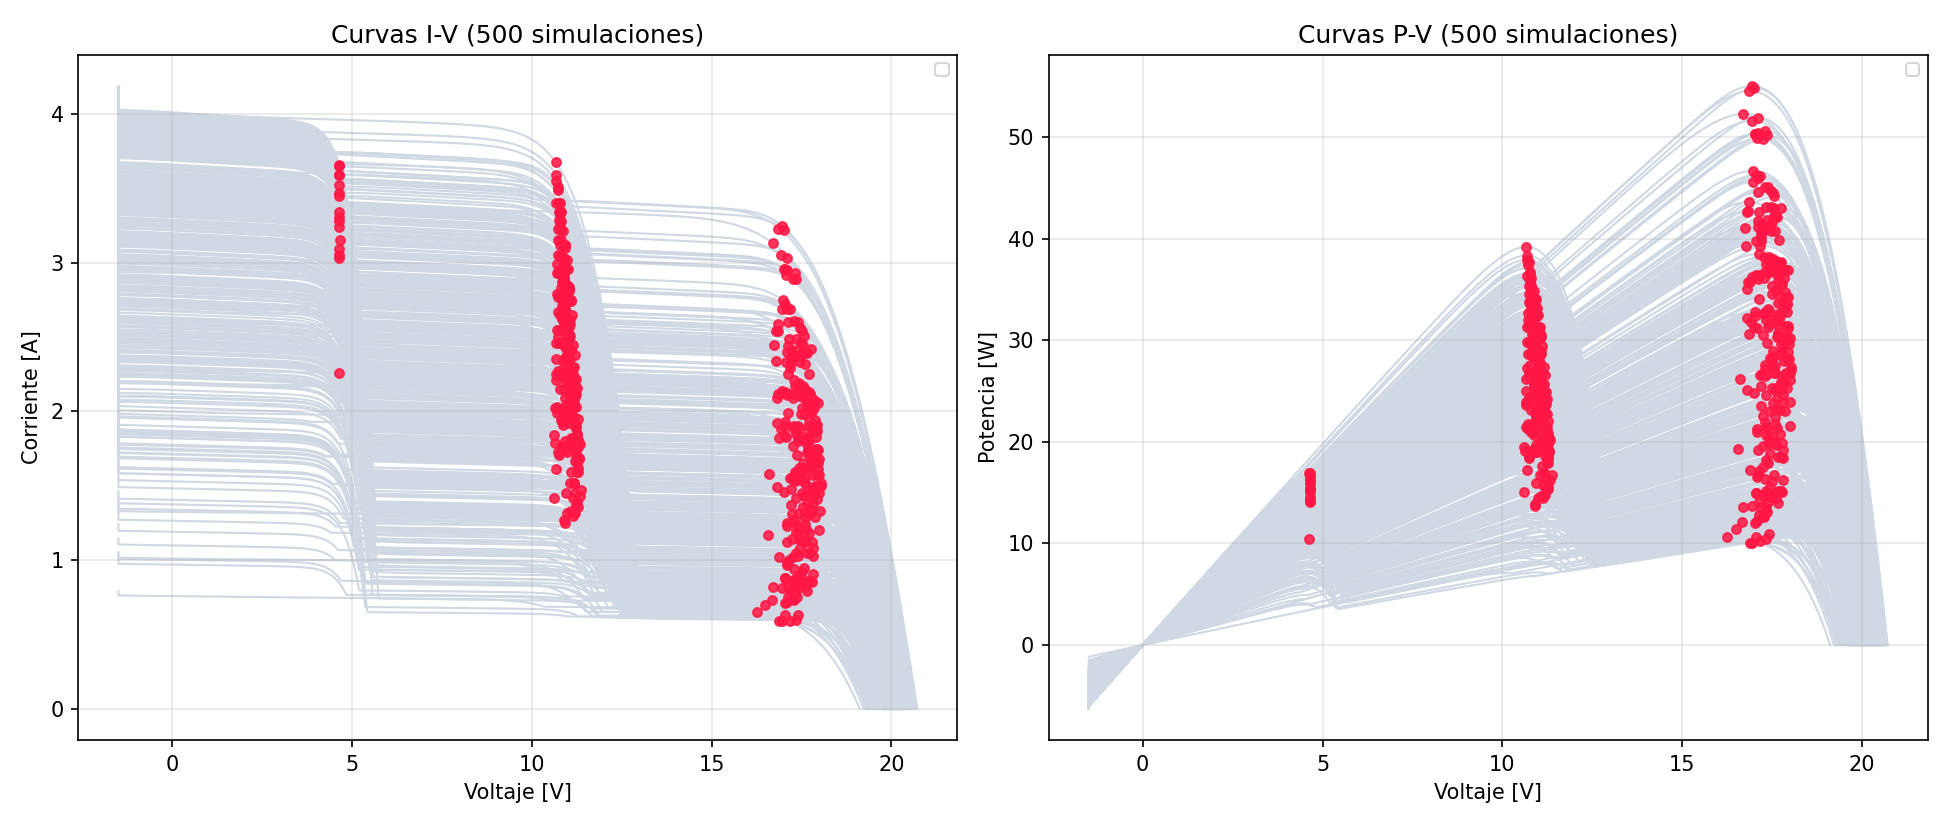
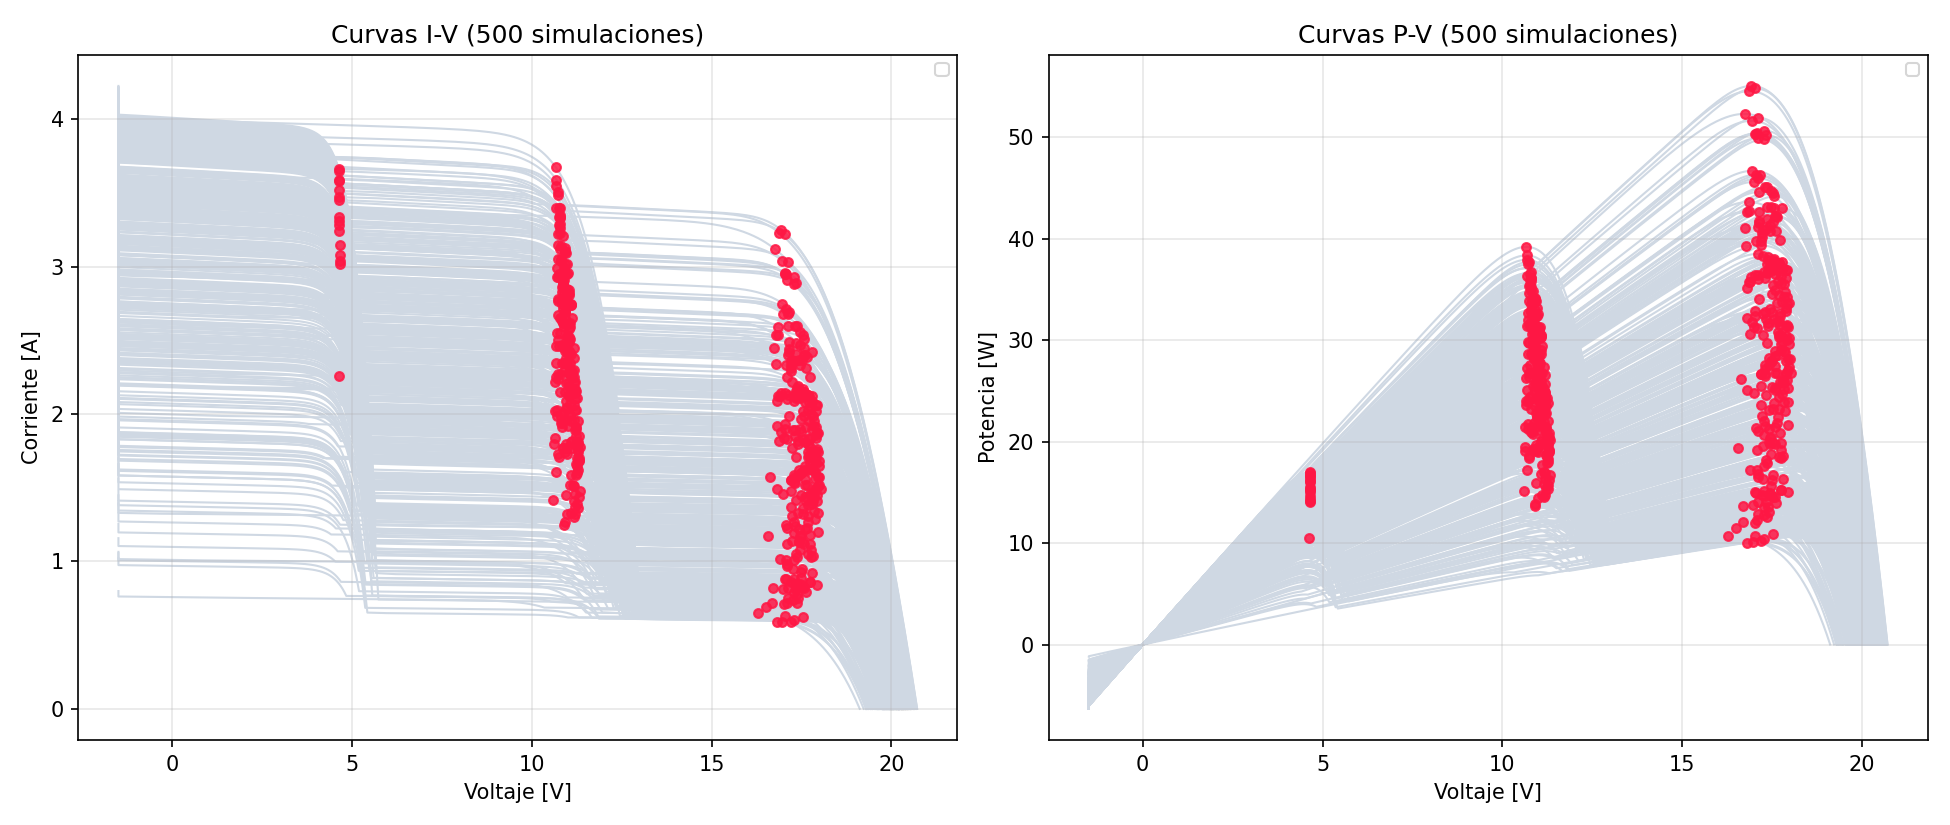
Añadido .gitignore de Python + mejora código simulación

Changed region(s): [[0.0615, 0.1212, 0.4308, 0.7576], [0.8923, 0.4848, 0.9231, 0.6667], [0.0923, 0.3333, 0.1538, 0.3939]]

diff --git a/Simulacion/panel_funciones.py b/Simulacion/panel_funciones.py
@@ -177,7 +177,17 @@ def curva_iv_panel_sombreado(modulo, irradiancias_substrings, temp_celda,
     # es la misma para todos los substrings en serie (excepto cuando el
     # bypass de alguno se activa), así que barremos corriente y resolvemos
     # voltaje, en vez de al revés.
-    i_max_ref = max(irradiancias_substrings) / 1000 * modulo["i_sc"] * 1.05
+    
+    #i_max_ref = max(irradiancias_substrings) / 1000 * modulo["i_sc"] * 1.05
+    
+    #Corriente máxima para la simulación
+    irr_max_idx = int(np.argmax(irradiancias_substrings))
+    _, _, _, _, _, isc_max = parametros_substring(
+        modulo, irradiancias_substrings[irr_max_idx], temp_celda
+    )
+    i_max_ref = isc_max * 1.05 # Factor de seguridad, además añade padding
+    
+    
     i_array = np.linspace(0, i_max_ref, n_puntos)
 
     v_substrings = np.zeros((n_substrings, n_puntos))